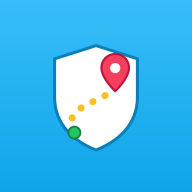
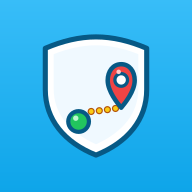
feat: PWAアイコンの正式アートを追加(Codexでベクター作成)
- assets/pwa/icon-source.svg / icon-source-maskable.svg を追加。
  Codex CLI(ChatGPTサブスクリプション)でSVGとして作成し、画像生成APIは不使用。
  拡散モデルの描画でなくベクターにしたのは、1024px〜96pxまで劣化なしで縮む必要があるため
- generate-pwa-icons.mjs をSVG入力対応に拡張(優先順: icon-source.svg → icon-source.png
  → 暫定SVG)。maskable専用SVGがあれば直接描画し、パディング由来の継ぎ目を避ける
- 全アイコンを正式アートで再生成(192/512/maskable 192/512/apple-touch 180)

デザイン: スカイブルー背景に白いシールド、緑の出発点から黄色い点線の通学路が
赤いマップピンへ向かう。3回の反復で、シールドからのはみ出し・点線の接触・
終点の垂れ下がりを修正済み(毎回ラスタライズして目視確認)

Changed region(s): [[0.2188, 0.1562, 0.7812, 0.8438]]

diff --git a/implementation-notes.md b/implementation-notes.md
@@ -350,6 +350,24 @@ X1 の学びどおり「先にローカルコミット → worktree 隔離でレ
   導出する形に修正(注目バッジは isBreaking の記事にしか出ないため)。
   **学び: 日次更新されるコンテンツを参照するテストは、タイトルもスラッグも一切ハードコードしない**
 
+## アイコン正式アートの作成(2026-07-29)
+
+A2 の残作業を完了。**Codex CLI(ChatGPT サブスクリプション)で作成し、画像生成APIは不使用**。
+
+- 拡散モデルの描画ではなく **SVG ベクターアート**として作らせた。アプリアイコンは 1024px〜96px まで
+  劣化なしで縮む必要があり、maskable 版を別描画できるためパディング由来の継ぎ目も出ない
+- 実行は `codex exec --cd <scratchpad> --sandbox workspace-write` でリポジトリ外に隔離し、
+  プロンプトに「作業ディレクトリ外を読まない・変更しない・削除しない / npm install しない /
+  ネットワーク取得しない」を明記(サブエージェント破壊事故の規律をCodexにも適用)
+- **3回反復した**。Codex の自己申告を信用せず、毎回自分でラスタライズして目視確認:
+  ①ピンと緑円がシールドの輪郭をはみ出していた → 修正 ②点線が接触して「毛虫」状になり、
+  終点がピンから垂れ下がった → 修正指示 ③Codex が「ドット径48pxで6個は幾何学的に入らない」と
+  正しく指摘 → 96pxで消える縮小案を却下し、**ドット数を4個に減らす**判断を返して決着
+- `scripts/generate-pwa-icons.mjs` を SVG 入力対応に拡張(優先順: icon-source.svg →
+  icon-source.png → 暫定SVG)。maskable 専用SVGがあれば直接描画する
+- 生成物を実測確認: 192/512/180/96 の各サイズ、maskable はセーフゾーン80%、
+  apple-touch-icon は不透明(alpha=false)
+
 ### 検証結果(2026-07-29 第2ラウンド)
 - 対象8ファイル62テスト緑(新規: sw通知クリック5件 / hazard-gameレート制限3件 /
   textInImageガード1件 / CSS・SSRFトリップワイヤ4件)
